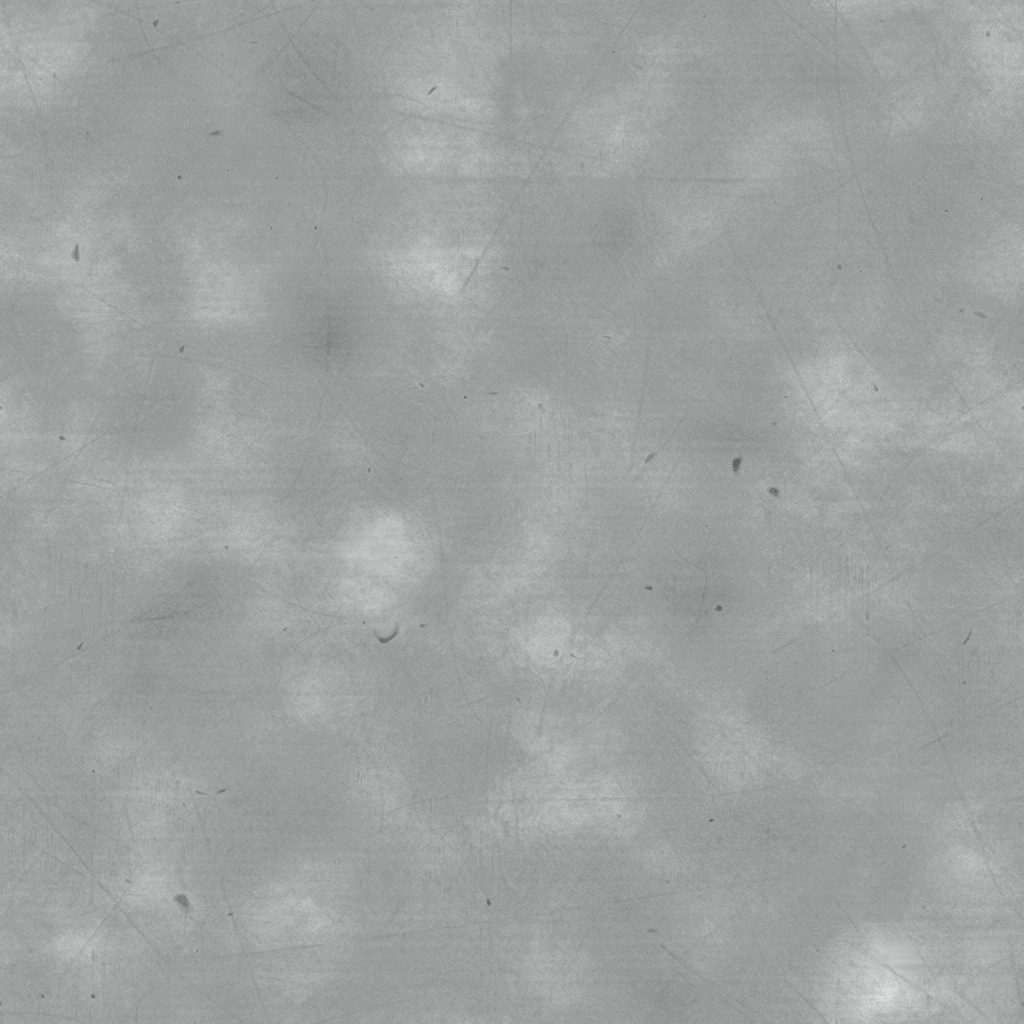
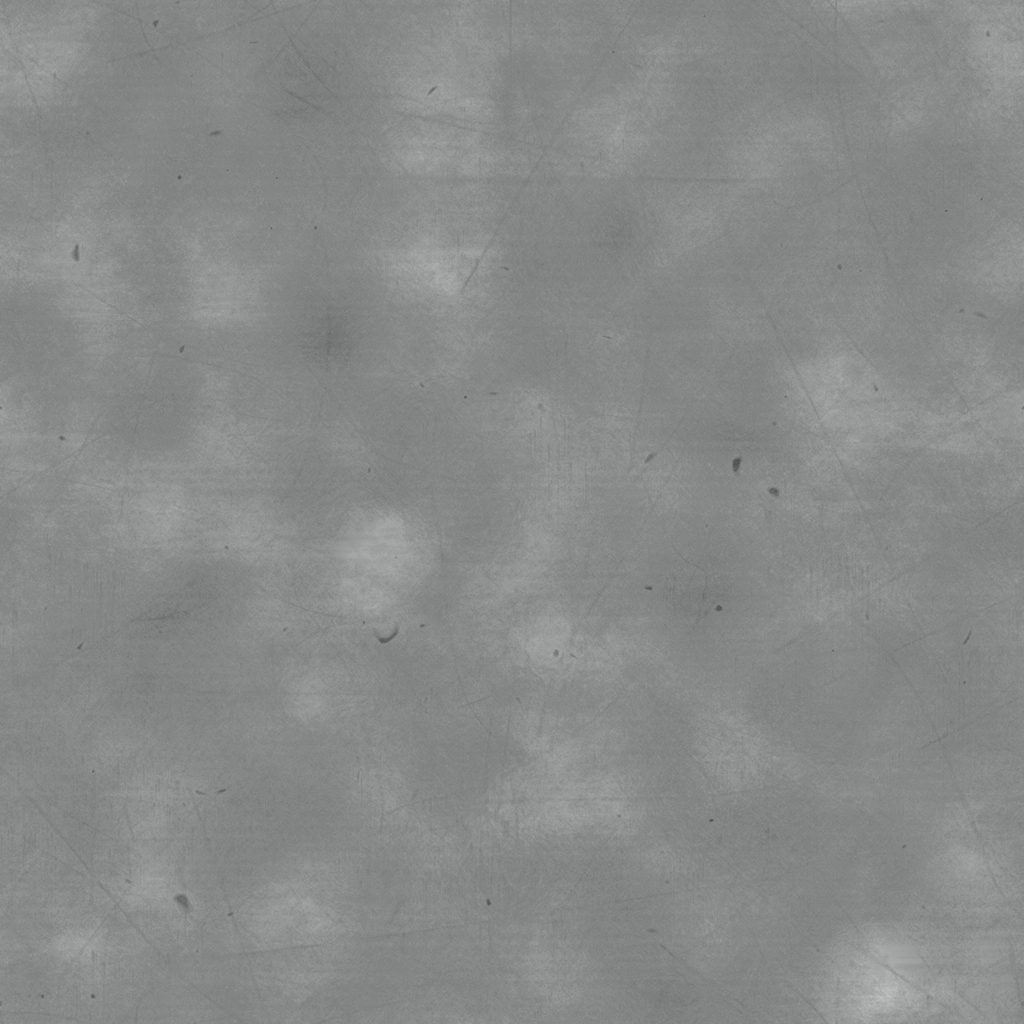
WIP : SS-16 et moteur 3D en cours (agents au travail)
Claude-Session: https://claude.ai/code/session_01Cx4tH5HqnUbsFvfqaidtfy

diff --git a/renovation/outils/visite3d_gabarit.html b/renovation/outils/visite3d_gabarit.html
@@ -118,6 +118,7 @@ body.sans-joy #rail { bottom: var(--sb); }
     <li><b>◀ ▶</b> en bas : visite guidée, pièce par pièce. La liste à gauche va directement à une pièce.</li>
     <li><b>Joystick</b> (en bas à gauche) pour marcher librement. Au clavier : W A S D ou les flèches.</li>
     <li><b>Maquette</b> : vue de dessus sans plafond ; un doigt tourne, deux doigts zooment et déplacent ; touchez une pièce pour y entrer.</li>
+    <li><b>Haute / Normale</b> (en haut) : qualité de l'image (ombres, reflets, lumière). Normale est plus fluide sur une tablette lente.</li>
   </ul>
   <button id="aide-ok" aria-pressed="true">Compris</button>
 </div></div>

diff --git a/renovation/SS-16_bain_vedette_beton_poli/scene_3d.py b/renovation/SS-16_bain_vedette_beton_poli/scene_3d.py
@@ -194,12 +194,14 @@ M += [B(438.5, 64, 443.5, 156, 91.5, 96, "carbone"), B(440.8, 68, 441.2, 152, 41
       B(440.8, 68, 441.2, 152, 86.5, 91.5, "carbone"), B(440.4, 67.5, 441.6, 152.5, 40, 41, "carbone")]
 M += [A(428, 82, 446, 138, 4, 17, "placage", r=1, b=0.4), A(434, 92, 443, 128, 17, 20, "carbone", r=1, b=0.6),
       MOD("plante_sansevieria", 438, 72)]
-# grand cadre photo sur le mur avant, au-dessus du dossier du divan : cadre noir, passe-partout blanc, lampe laiton
+# grand cadre sur le mur avant, au-dessus du dossier du divan : cadre noir, passe-partout blanc ; œuvre abstraite générique
+# (champs de couleur argile, sable et sauge) — aucune photo personnelle dans la maquette
 Z = 10
 M += [B(288.5, 10, 325.5, 10.8, 21.5 + Z, 80.25 + Z, "blanc"),
       B(287, 10, 288.5, 11.5, 20 + Z, 81.75 + Z, "metal"), B(325.5, 10, 327, 11.5, 20 + Z, 81.75 + Z, "metal"),
       B(287, 10, 327, 11.5, 20 + Z, 21.5 + Z, "metal"), B(287, 10, 327, 11.5, 80.25 + Z, 81.75 + Z, "metal"),
-      {"forme": "image", "cle": "photo_salon", "x": 307, "y": 10.85, "z0": 25.5 + Z, "z1": 76.25 + Z, "larg": 29, "face": "+y"}]
+      B(292.5, 10.8, 321.5, 11.0, 25.5 + Z, 76.25 + Z, "art-sable"), B(294.5, 11.0, 319.5, 11.15, 52 + Z, 73.5 + Z, "art-argile"),
+      B(294.5, 11.0, 319.5, 11.15, 29 + Z, 49 + Z, "art-sauge"), B(294.5, 11.0, 319.5, 11.2, 49.6 + Z, 50.6 + Z, "laque-marine")]
 # --- escalier : rampe de métal simple côté séjour (barreaux carrés de ¾ po à 4½ po, main courante noire)
 XR = 271
 zl = lambda y: 0.75 * (150 - y) + 7.5                       # ligne des nez de marche le long du côté séjour
@@ -395,15 +397,14 @@ SCENE = {
         "Bleu-gris": ["#8FA1A8", "murs de la salle de lavage (≈ Benjamin Moore Boothbay Gray HC-165)"],
         "Marine": ["#2E3B4E", "armoires de la salle de lavage (≈ Benjamin Moore Hale Navy HC-154)", "laque-marine"],
         "Anthracite": ["#3E4042", "murs pleins de la salle d'entraînement (≈ Benjamin Moore Wrought Iron 2124-10)"],
-        "Sauge": ["#A6AF9A", "chambre 2 (≈ Benjamin Moore October Mist 1495)"],
-        "Argile": ["#C39A82", "mur de tête de lit de la chambre 1 (terracotta adouci, à choisir sur nuancier)"],
-        "Greige": ["#D9D2C8", "murs de la salle de bain hors céramique"],
+        "Sauge": ["#A6AF9A", "chambre 2 (≈ Benjamin Moore October Mist 1495)", "art-sauge"],
+        "Argile": ["#C39A82", "mur de tête de lit de la chambre 1 (terracotta adouci, à choisir sur nuancier)", "art-argile"],
+        "Greige": ["#D9D2C8", "murs de la salle de bain hors céramique", "art-sable"],
     },
     "peinture": {"piece-SS-LAVAGE": "Bleu-gris", "piece-SS-GYM": "Anthracite", "piece-SS-CH2": "Sauge",
                  "piece-SS-GR2": "Sauge", "piece-SS-SDB": "Greige"},
     "accents": [{"piece": "piece-SS-VEST", "mur": "mur-SS-P11", "peinture": "Vert forêt"},
                 {"piece": "piece-SS-CH1", "mur": "mur-SS-003", "peinture": "Argile"}],
-    "images": {"photo_salon": "../prive/photo_salon.jpg"},    # photo personnelle : hors du dépôt (renovation/prive/)
     "mobilier": M,
     "revetements": [],
     "lumieres": [{"x": 300, "y": 80}, {"x": 404, "y": 90}, {"x": 368, "y": 196}, {"x": 424, "y": 190}, {"x": 400, "y": 126}, {"x": 190, "y": 182},

diff --git a/renovation/outils/catalogue_materiaux.py b/renovation/outils/catalogue_materiaux.py
@@ -35,7 +35,7 @@ CATALOGUE = {
     "bois_recupere": {"source": "polyhaven", "id": "wood_cabinet_worn_long", "taille_m": 1.0, "usage": "bois de récupération foncé (table de la salle à manger du RDC)"},
     "inox": {"source": "ambientcg", "id": "Metal009", "taille_m": 0.6, "metal": 1.0, "usage": "frigo, éviers, électros"},
     "laiton": {"source": "ambientcg", "id": "Metal048A", "taille_m": 0.4, "metal": 1.0, "usage": "robinet du bar, poignées"},
-    "beton_poli": {"source": "ambientcg", "id": "Concrete016", "taille_m": 2.4, "ajustement": {"luminosite": 1.24, "saturation": 0.1},
+    "beton_poli": {"source": "ambientcg", "id": "Concrete016", "taille_m": 2.4, "ajustement": {"luminosite": 1.06, "saturation": 0.1},
                    "rugosite": 0.34, "vernis": 0.45, "vernis_rugosite": 0.22,
                    "usage": "béton poli gris pâle, léger marbrage (dalle meulée et densifiée ou chape polie) — tout le sous-sol de SS-16"},
     "platre": {"source": "ambientcg", "id": "Plaster001", "taille_m": 1.5, "relief_seul": True,

diff --git a/renovation/README.md b/renovation/README.md
@@ -45,6 +45,14 @@ plafond (un doigt tourne, deux doigts zooment). Les escaliers projetés (`etat: 
 `peinture` / `accents` dans `scene_3d.py` colorent les murs pièce par pièce. Les visites déjà publiées de SS-02 et SS-03
 gardent l'ancienne visionneuse tant qu'on ne les régénère pas.
 
+Rendu (bouton **Haute / Normale** en haut ; Haute par défaut, une tablette lente passe seule en Normale) : image rendue
+dans une cible multi-échantillonnée puis finie par passes (occlusion ambiante, halo des sources claires, vignette) ;
+encastrés 3000 K et lumière du jour bleutée par les fenêtres, attribués aux sources les plus proches du visiteur (nombre
+de lumières fixe, avec fondu) ; ombres douces des encastrés les plus proches ; vernis (clearcoat) des planchers, comptoirs
+et céramiques et duvet (sheen) des tissus ; ciel et terrain vus par les fenêtres (`sol_exterieur` dans `scene_3d.py`,
+en pouces ; par défaut 8 po sous l'allège au sous-sol, -30 ailleurs). Un matériau du catalogue peut donner son fini :
+`vernis`, `vernis_rugosite`, `duvet`. Normale coupe les ombres, l'occlusion, le halo et les finis.
+
 ## Matériaux
 `renovation/outils/materiaux/` : bibliothèque de matériaux réels (ambientCG, Poly Haven, CC0, ou fichiers de
 fournisseurs), décrite dans `renovation/outils/catalogue_materiaux.py` ; voir `renovation/outils/materiaux/README.md`.

diff --git a/renovation/SS-16_bain_vedette_beton_poli/DESIGN.md b/renovation/SS-16_bain_vedette_beton_poli/DESIGN.md
@@ -106,3 +106,5 @@ autre teinte, alignées sur les cloisons).
 `3d/visite.html` — arrêts refaits : Salle de bain (entrée), Le bain (alcôve de zellige), Douche simple, Vanité. Béton
 poli partout (matériau `beton_poli`, ambientCG Concrete016, CC0). Nouveaux modèles : bain sculptural (modèle procédural
 du projet), suspension globe, plante en pot, panier d'osier (Poly Haven, CC0).
+Au-dessus du divan, le grand cadre montre une œuvre abstraite générique (champs argile, sable et sauge) : aucune photo
+personnelle n'est intégrée à la maquette.
